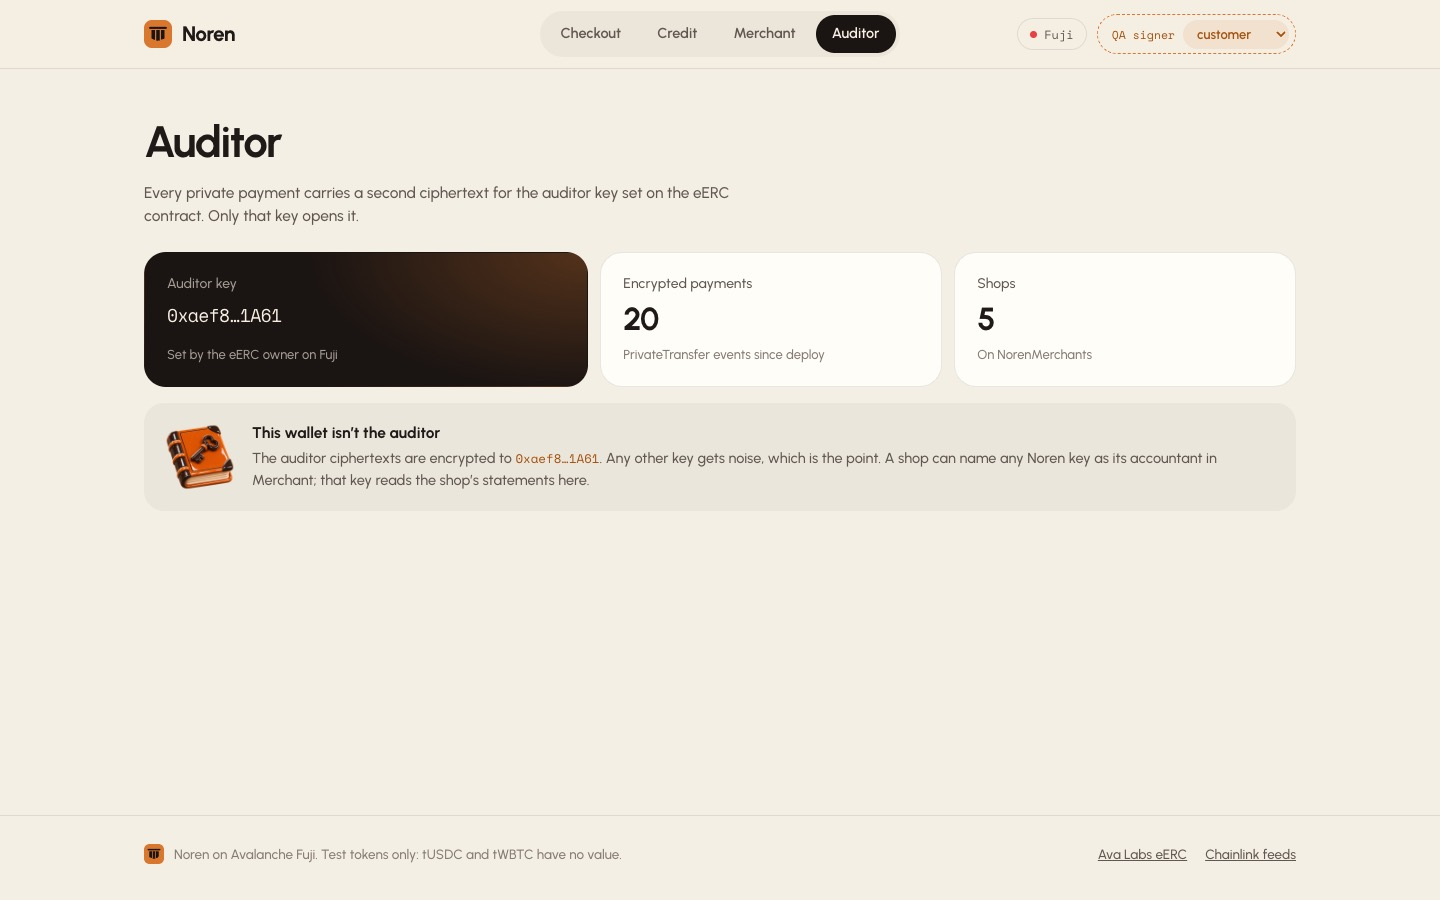
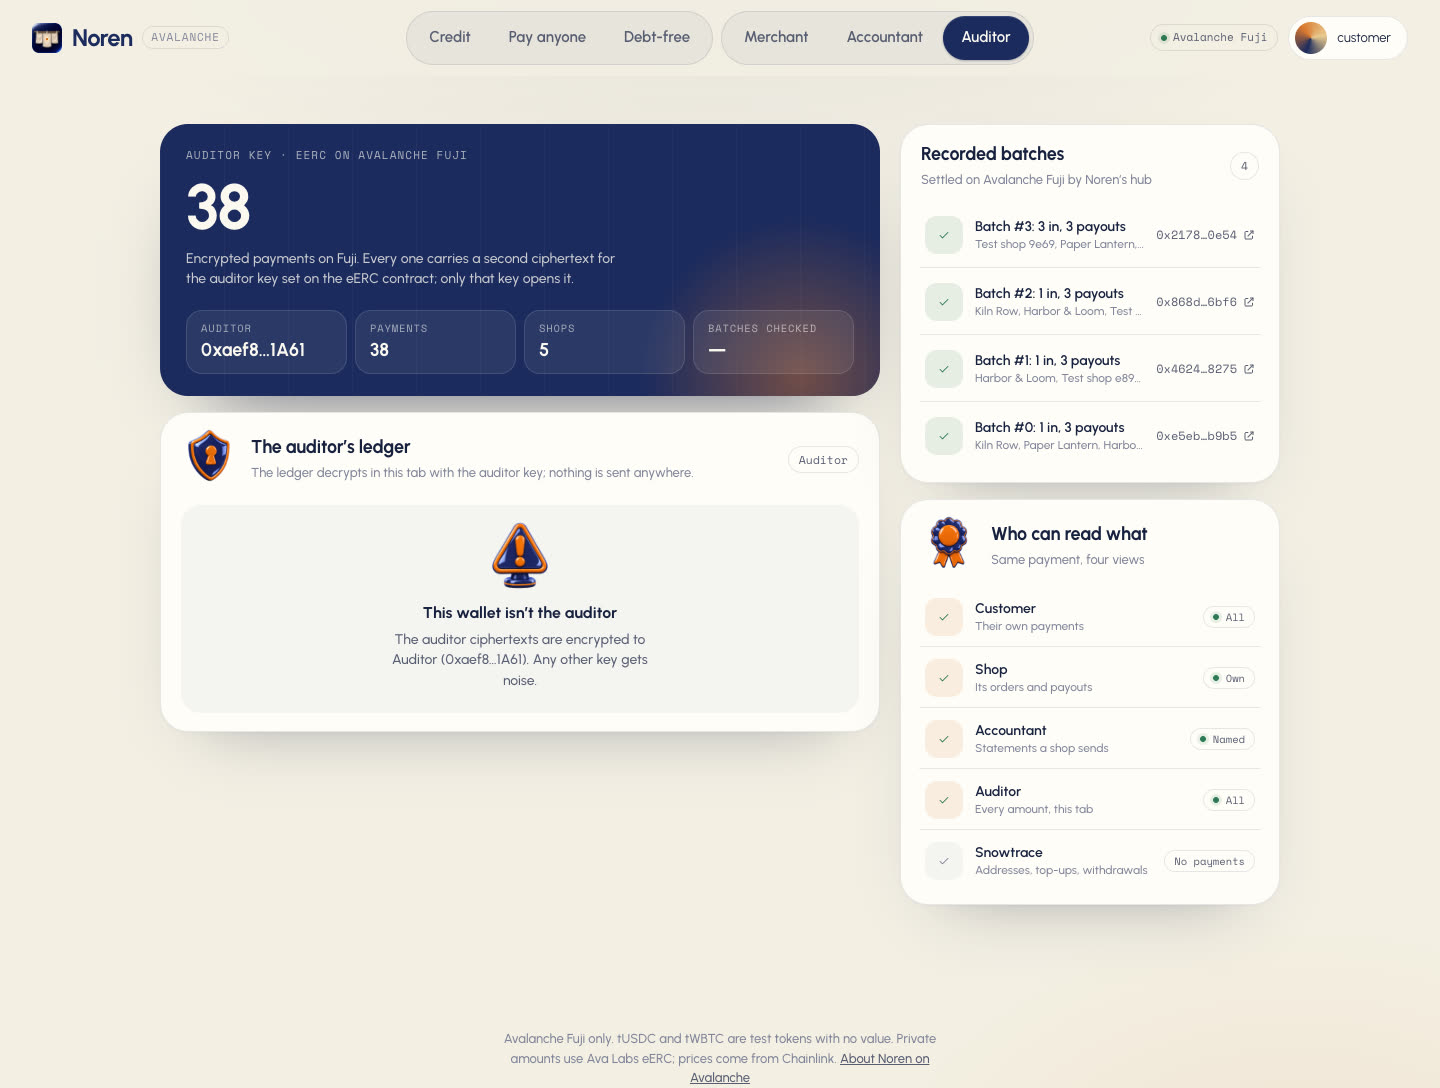
Docs: NEAR-UI round: screen audit with side-by-side contact sheets, new screenshots, prior work (UI from Noren on NEAR), 3D kit, win gap and submission film path

diff --git a/docs/ART-3D.md b/docs/ART-3D.md
@@ -1,26 +1,60 @@
-# Noren 3D object kit (Avalanche edition)
+# Noren 3D object kit (Avalanche edition, Nov 13: the NEAR kit)
 
-Single glazed objects for the landing, checkout, merchant, auditor and credit screens. The layout, fonts and copy
-voice are Noren's (cream surfaces, one dark hero, persimmon accent); the NEAR edition's indigo lacquer is replaced
-here so the two editions don't look alike and no blue is the main colour.
+Since Nov 13 the Avalanche app wears Noren on NEAR's approved UI, and with it the NEAR edition's 3D kit: the files
+in `web/public/art/3d/` are copied unchanged from `noren-near/packages/web/public/art/3d/` (and `art/mark.png`,
+`art/favicon.png`). Its brief, copied from `noren-near/docs/ART-3D.md`, follows. The persimmon stoneware kit this build
+used before (Nov 12) is retired; the film's v1 cards keep copies in `videos/noren-avax/film/work/v1-cards/`.
 
-- **Material:** glossy persimmon stoneware: a thick, wet-looking kaki-orange glaze over heavy rounded stoneware, the
-  glaze pooling slightly darker in the recesses, with warm black lacquer details (bands, handles, inlay lines). Not
-  metal, not chrome, not candy plastic, not glass.
-- **Palette:** main kaki persimmon `#d9772f` (glaze) with `#b85f1f` in the pools, accent warm lacquer black `#1f1714`,
-  rim light warm cream `#f6e6c8`. These match the app tokens (`--kaki`, `--night`, `--cream`) in `web/src/styles.css`.
-- **Face:** none. Noren is money and credit, so every object is the object alone.
-- **Background:** transparent (no ground shadow), trimmed and padded to a square, webp at 640 px.
-- **Subjects:** shop stall with a split curtain (hero), sealed coin with a keyhole (private payment), BTC coin with a
-  padlock (collateral), credit card, receipt with a stamp (payment received), ledger book with a key (auditor),
-  health gauge (credit health), empty tray (no payments yet), check badge (success), warning sign (error / setup).
+---
+
+
+Single lacquered objects for the NEAR landing and credit app: feature tiles, card headers, how-it-works steps, empty,
+setup-required, receipt (success, pending, error) states and the debt-free projection. The approved layout, fonts,
+copy and the navy credit-limit card are unchanged; the objects are additions in space the layout already had.
+
+- **Material:** glossy aizome-indigo lacquer, hard and mirror-smooth like urushi lacquerware, with kaki enamel inlay
+  details. No metal chrome, no brushed silver, no candy plastic.
+- **Palette (from `packages/web/src/app/app.css`):** main aizome indigo `#1c2a5e` with `#2c3d7c` on the curves
+  (`--nk-ai`, `--nk-ai-2`), accent kaki persimmon `#d9772f` (`--nk-kaki`), rim light periwinkle `#7fa8ff` (the
+  landing's `--glow`). On the night sections an object sits on a soft `#7fa8ff` radial light.
+- **Face:** none. Noren is credit and payments, so every object is the object alone.
+- **Background:** transparent (no ground shadow), trimmed to the object and padded to a square, webp at 640 px.
+- **Subjects:** the noren-curtain shop stall (hero), credit card, BTC collateral coin with a padlock, receipt with a
+  check stamp, health gauge, price tag with a wax seal (the signed price), desk calendar with three dots (Pay in 3,
+  debt-free date), hourglass (the debt melting over time), shield with a keyhole (connect a wallet), empty coin tray,
+  check badge (success), warning sign (error, blocked), rosette medal (badge candidate), split noren curtain (logo
+  mark candidate).
 
 Style line used in every prompt:
 
-> Glossy persimmon stoneware 3D render: a thick, wet-looking kaki-orange glaze #d9772f over heavy rounded stoneware,
-> the glaze pooling darker #b85f1f in the recesses, warm black lacquer #1f1714 details and thin inlay lines, a soft
-> warm cream #f6e6c8 rim light, soft studio lighting, crisp reflections, rounded bevelled edges, gentle toy-like
-> proportions, no face, no eyes, centred single object, transparent background (no background, no ground shadow),
-> square 1024x1024, no text, no letters, no numbers, no logos.
+> Glossy deep aizome-indigo lacquered enamel 3D render: hard, mirror-smooth lacquer like Japanese urushi
+> lacquerware, deep navy-indigo #1c2a5e body with lighter indigo #2c3d7c on the curves, kaki persimmon-orange #d9772f
+> enamel details and thin inlay lines, and a soft periwinkle #7fa8ff rim light, soft studio lighting, crisp
+> reflections, rounded bevelled edges, gentle toy-like proportions, no face, no eyes, centred single object,
+> transparent background (no background, no ground shadow), square 1024x1024, no text, no letters, no numbers, no
+> logos.
+
+## Where each object is used
+
+| Object | File | Used in |
+|---|---|---|
+| Shop stall | `noren-3d-stall.webp` | Landing closing call ("Run the cycle yourself"); app Pay anyone card header |
+| Credit card | `noren-3d-card.webp` | App tile "Pay anyone"; landing step 03 |
+| BTC coin | `noren-3d-btc-coin.webp` | App tile "Bring coins"; landing step 01 |
+| Receipt | `noren-3d-receipt.webp` | App tile "Explorer" |
+| Health gauge | `noren-3d-gauge.webp` | App "How much of your coin is spoken for" header; landing step 02 |
+| Price tag | `noren-3d-price-tag.webp` | App "The contract" card header (signed BTC price) |
+| Calendar | `noren-3d-calendar.webp` | App tile "Debt-free date"; debt-free projection date; landing "Debt-free on" card |
+| Hourglass | `noren-3d-hourglass.webp` | Landing step 04; receipt while pending on NEAR testnet |
+| Shield | `noren-3d-shield.webp` | Action sheet before a wallet is connected; receipt while waiting for Meteor; landing NEAR features header |
+| Empty tray | `noren-3d-empty.webp` | Activity with nothing recorded for the account |
+| Success badge | `noren-3d-success.webp` | Receipt when the action is final on NEAR testnet |
+| Warning sign | `noren-3d-warning.webp` | Receipt when an action fails; blocked Harvests card |
+| Medal | `noren-3d-medal.webp` | Generated as a badge candidate; not placed |
+| Noren curtain | `noren-3d-mark.webp` | Logo mark candidate; not placed (the existing logo stays) |
+
+Objects float 4 px over 6 s and stand still under `prefers-reduced-motion`. Each `<img>` has a fixed width and height
+and alt text (empty inside the feature tiles, whose labels already name the action). The Vite plugin in
+`packages/web/vite.config.ts` emits `public/art/3d/*.webp`, because this entry does not copy the public folder.
 
 3D art generated with ChatGPT.

diff --git a/docs/SCREEN-AUDIT.md b/docs/SCREEN-AUDIT.md
@@ -1,4 +1,50 @@
-# Screen audit (ship round, Nov 12 2026)
+# Screen audit
+
+## NEAR-UI round (Nov 13 2026): Noren on NEAR's approved UI
+
+Nick (Nov 13): "Noren should have the same exact UI we have for NEAR." The web app now uses the NEAR edition's
+stylesheets verbatim (`web/src/ui/nk/{styles,app-base,near,landing}.css`), its brand, ambient, Art3d and Mark
+components, its navy 3D kit, mark and fonts. Avalanche-only additions sit in `web/src/ui/nk/avax.css` on the same
+tokens. Every route was shot at 1440 and 375 and laid side by side with the approved NEAR screenshots
+(`orchestration/shots/noren-near/r3/after-*`).
+
+Contact sheets (NEAR left, Avalanche right): `orchestration/shots/avax-noren/near-ui/contact/<route>-<width>.jpg`.
+Raw shots: `near-ui/roles/` (signed-in roles, QA build, `scripts/qa/shots.mjs`), `near-ui/hosted/` (the production site
+after the redeploy, `NOREN_URL=https://noren-avax.vercel.app node scripts/qa/states.mjs`).
+
+| Avalanche route / state | NEAR counterpart | Width | Same product? | Overflow | Console errors |
+|---|---|---|---|---:|---:|
+| Landing `/` | About (`#/near`) | 1440 / 375 | Yes: night glyph-field hero, recorded-run strip, two views, four steps, night batch card, live numbers, contracts, "What Avalanche does here", closing call | 0 | 0 |
+| Credit `/credit` (customer; signed out reads the demo customer) | Credit | 1440 / 375 | Yes: navy credit-limit hero with four tiles, health bar, four action tiles (Pay anyone in kaki), collateral list, The contract + Activity | 0 | 0 |
+| Pay anyone `/shop/harbor-loom` | Pay anyone | 1440 / 375 | Yes: stall card, "Pay with" band (Private balance / Credit), amount box with token chip, merchant box (shop + items), CTA, recorded-payment proof, hub receipt | 0 | 0 |
+| Debt-free `/debt-free` | Debt-free | 1440 / 375 | Yes: big date-style headline ("$36.00 to go" / "Debt-free today"), projection chart (what is owed if nothing is repaid), two stat tiles, Repay and release card | 0 | 0 |
+| Add collateral / Borrow / Repay / Withdraw sheet | Deposit collateral sheet | 1440 / 375 | Yes: same sheet, band, amount box, CTA, receipt | 0 | 0 |
+| Wallet sheet (Connect wallet) | Read any account sheet | 1440 / 375 | Yes: same sheet and list rows (Test wallet, Browser wallet) | 0 | 0 |
+| Merchant `/merchant` (signed out, fresh wallet open-shop form, Harbor & Loom decrypted) | (Avalanche only) | 1440 / 375 | Built from the same parts: navy revenue hero, Orders as Activity rows, assistant card, Withdraw, Payouts, What Snowtrace sees | 0 | 0 |
+| Accountant `/accountant` (signed out, shop owner naming an accountant, accountant decrypted) | (Avalanche only) | 1440 / 375 | Same parts: navy statements hero, statement rows with ✓, recorded batches, hub card | 0 | 0 |
+| Auditor `/auditor` (signed out, other wallet, auditor decrypted) | (Avalanche only) | 1440 / 375 | Same parts: navy auditor hero, ledger rows, settlement batches ✓, received by address, who can read what | 0 | 0 |
+| Unknown shop `/shop/no-such-shop`, 404 `/nope` | — | 1440 / 375 | Empty states in the NEAR card style with a way back | 0 | 0 |
+
+Fixed during the round (each found by these shots or by the film's live take):
+- **Public-RPC 429s.** The first shots and the first film take logged 429s from the public Fuji RPCs (one auditor shot,
+  thousands of failed reads during a payment). Re-reads after a burst of transactions now coalesce, the Activity card
+  reads every NorenCredit event in one windowed scan and refreshes once 6 s after the last transaction, and log reads
+  retry with backoff; a refusal that survives the retries is one quiet line, not a raw RPC error. Re-shot: 0 errors.
+- **Accountant false empty state.** It said "No shop has named this wallet" while NorenMerchants was still loading; it
+  now shows "Reading NorenSettlement…" (or the read error).
+- **Phone ledgers.** Ledger, order and statement titles wrap at 375 instead of truncating, so the payee shows.
+
+What differs from NEAR on purpose: a second pill group for the shop side (Merchant · Accountant · Auditor) next to
+the customer group; below 1180 px both groups move under the brand row, and at 375 they stack as two full-width pills
+(the header then scrolls with the page instead of sticking, so it never covers half a phone screen). The side column
+does not stick, so long Merchant and Auditor side cards stay reachable. Labels: NEAR → Avalanche, NearBlocks →
+Snowtrace, Meteor → test wallet / Core / MetaMask.
+
+---
+
+# Earlier rounds (warm-black UI, retired Nov 13)
+
+## Ship round (Nov 12 2026)
 
 Every route and every state we can reach, at 1440 and 375, judged before and after this round's fixes. The look is
 approved and unchanged: no new art, colours, fonts or layout. Fixes are copy, overflow, empty/error states and one

diff --git a/docs/WIN-GAP.md b/docs/WIN-GAP.md
@@ -1,4 +1,4 @@
-# Noren on Avalanche: win gap (honest, after the Nov 12 settlement-hub round)
+# Noren on Avalanche: win gap (honest, after the Nov 13 NEAR-UI round)
 
 Rubric: works 30, idea 25, depth 20, Avalanche fit 15, demo 10.
 
@@ -22,6 +22,21 @@ site passes 22 of 22 state shots with 0 console errors and no overflow. No new a
 Re-score: *Does it work* 8.8 → 8.9 (phones now show the numbers the product is about; credit is zero-setup too).
 Everything else unchanged; weighted stays **≈ 8.3** (8.29). The video is still the biggest gap.
 
+## NEAR-UI round (Nov 13)
+
+Nick: "Noren should have the same exact UI we have for NEAR." The web app now runs on Noren on NEAR's approved UI:
+its stylesheets copied verbatim, its components, navy 3D kit, mark and fonts, with only the chain layer and labels
+swapped (Avalanche, Snowtrace, test wallet / Core / MetaMask). Credit · Pay anyone · Debt-free carry the customer
+flows; Merchant · Accountant · Auditor sit in a second pill group built from the same cards. Every Avalanche feature
+still runs on Fuji (starter pack, eERC proofs in the browser, hub batches and signed receipts, Chainlink credit,
+merchant books and assistant, accountant statements, auditor checks). Every route at 1440 and 375 laid side by side
+with the NEAR screens (`docs/SCREEN-AUDIT.md`), 0 overflow, 0 console errors, redeployed and re-checked on the hosted
+site. The film was re-recorded live on the new UI (v1 kept).
+
+Re-score: Demo & communication moves with the film (below); the product scores are unchanged. One product, one look
+across both chains, which is what Nick asked for; Avalanche fit is unchanged (the UI is the NEAR one by design,
+disclosed under Prior work).
+
 ## Honest score
 
 | Criterion | Weight | Score | Why |
@@ -30,13 +45,12 @@ Everything else unchanged; weighted stays **≈ 8.3** (8.29). The video is still
 | Idea & originality | 25 | 8.2 | A private checkout that hides amounts and the customer-shop link, with credit against BTC/AVAX in the same click. The hub is a known pattern (a processor/mixer-style batcher) applied cleanly to eERC. |
 | Technical depth | 20 | 8.6 | eERC converter mode with the production verifiers, notes in eERC's metadata format, statement digests on chain, an auditor batch check that holds every line against ciphertexts, zero-value cover transfers, 77 Foundry + 22 Anvil tests with real proofs. |
 | Avalanche fit | 15 | 8.0 | eERC is the core of the product; Chainlink Fuji feeds; native AVAX collateral and gas. No ICM/ICTT, no own L1, not mainnet. |
-| Demo & communication | 10 | 6.5 | README, slides outline and screenshots are complete; **the ≤3 min video is not recorded yet**. |
-| **Weighted** | | **≈ 8.3** | |
+| Demo & communication | 10 | 9.0 | A 2:59.9 film recorded live in one take on the hosted site and Fuji (starter pack, private payment, payment on credit, the hub's batch, repay; Snowtrace for every on-chain claim; merchant, accountant and auditor views), on the approved Noren UI. README, slides outline, screenshots and screen audit complete. |
+| **Weighted** | | **≈ 8.54** | 2.67 + 2.05 + 1.72 + 1.20 + 0.90 |
 
 ## What still separates it from a 9
 
-1. **The video** (10% of the score): record the judge path on the hosted site, leading with the problem ("anyone can
-   see where you shop and how much a shop makes") and the Snowtrace view of a hub batch. Only Nick can upload it.
+1. **Upload the film** (recorded, `videos/noren-avax/noren-avax-film.mp4`): only Nick can upload it.
 2. **Anonymity set on a quiet testnet.** A batch with one customer and three shops (two of them cover) is the whole
    set. It grows with traffic and with more shops; a longer window would help but slows the demo.
 3. **The hub is a single trusted operator** (sees every payment, holds money for one batch, can stall). Shops, the
@@ -46,4 +60,4 @@ Everything else unchanged; weighted stays **≈ 8.3** (8.29). The video is still
 
 ## Only Nick can do
 
-- Record and upload the demo video; push the repo; submit the Speedrun form (closes Nov 14 22:59 UTC).
+- Upload the demo video (recorded); push the repo; submit the Speedrun form (closes Nov 14 22:59 UTC).

diff --git a/SUBMISSION.md b/SUBMISSION.md
@@ -54,10 +54,10 @@ Not used: ICM / ICTT (optional in the brief; not built), mainnet, a custom L1.
 
 ## Links
 
-- Live app: https://noren-avax.vercel.app (Fuji testnet; no wallet needed: Connect wallet → Test wallet)
+- Live app: https://noren-avax.vercel.app (Fuji testnet; no wallet needed: Connect wallet → Test wallet; tabs Credit · Pay anyone · Debt-free · Merchant · Accountant · Auditor)
 - Noren API (hub, gas relay, assistant): https://noren-avax-api.201-18-198-162.sslip.io/api/health
 - Repo: (to be pushed by Nick)
-- Demo video (2:55): `grokbot/videos/noren-avax/noren-avax-film.mp4` (1080p) and `noren-avax-film-share.mp4` (720p, 9.5 MB); upload link: (to be added by Nick)
+- Demo video (2:59.9, re-recorded Nov 12–13 live on the hosted site's new UI and Fuji): `grokbot/videos/noren-avax/noren-avax-film.mp4` (1080p) and `noren-avax-film-share.mp4` (720p, 9.7 MB); every render is kept in `videos/noren-avax/versions/` (v1 = the earlier cut on the old UI). Upload link: (to be added by Nick)
 - Slides: `docs/SLIDES.md`
 - Screen audit (every route and state at 1440 and 375): `docs/SCREEN-AUDIT.md`
 - Contracts on Snowtrace:
@@ -74,9 +74,11 @@ Not used: ICM / ICTT (optional in the brief; not built), mainnet, a custom L1.
 
 ## Prior work
 
-Noren existed before the event (NEAR edition and earlier EVM versions). The product idea, positioning and design
-language carry over; the Avalanche contracts, the eERC integration, the SDK, the tests, the web app and the Fuji
-deployment were written for this build. Details in the README's "Prior work" section.
+Noren existed before the event (NEAR edition and earlier EVM versions). The product idea and positioning carry over,
+and since Nov 13 the web app uses the UI of Noren on NEAR as is (its stylesheets, components, 3D art and fonts; only
+the chain layer and labels differ). The Avalanche contracts, the eERC integration, the SDK, the hub, the tests, the
+app's screens and chain layer and the Fuji deployment were written for this build. Details in the README's "Prior
+work" section.
 
 ## AI tools used
 
